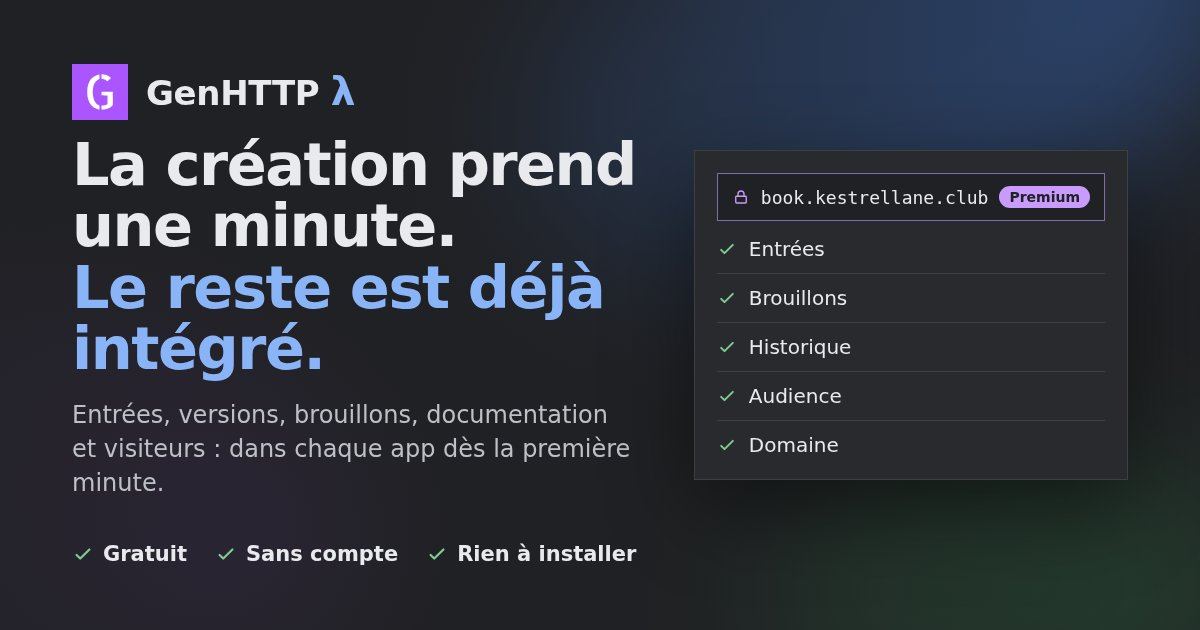
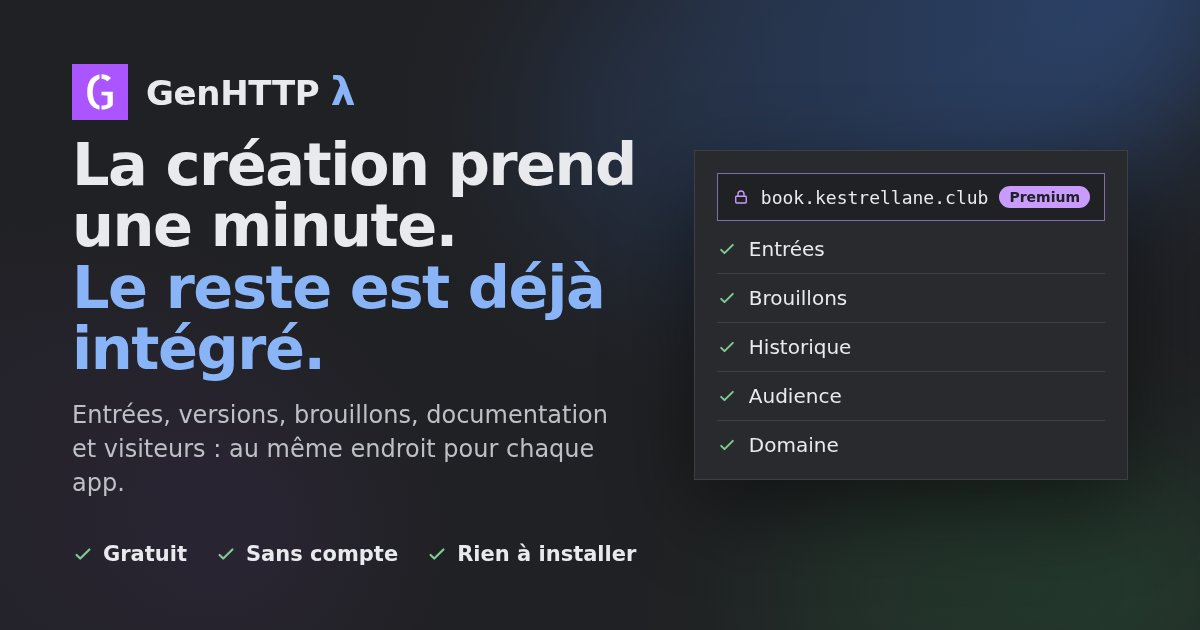
fix(i18n): translate the corrected sentences, and draw the features cards again

Changed region(s): [[0.185, 0.6937, 0.5242, 0.7238], [0.0617, 0.754, 0.1233, 0.7841]]

diff --git a/src/GenHTTP.Lambda.Cloud/Frontend/src/locales/ja/platform.tsx b/src/GenHTTP.Lambda.Cloud/Frontend/src/locales/ja/platform.tsx
@@ -7,7 +7,7 @@ export const platform: Messages['platform'] = {
   title: '作るのは1分。',
   titleAccent: 'あとは最初からそろっています。',
   intro:
-    'ここで作ったアプリは、AIが書いたコードだけではありません。使い続けるために必要なものが、あとから付いてきます。記録、バージョン、アプリの目的、訪れる人たち、そして独自ドメイン。どのアプリにもすべてがそろっていて、作ったときに届くリンクから、ひとつの場所で開けます。',
+    'ここで作ったアプリは、AIが書いたコードだけではありません。使い続けるために必要なものが、あとから付いてきます。記録、バージョン、アプリの目的、誰が訪れているかを知る手段、そして人気が出たときのための独自ドメイン。そのすべてが、作ったときに届くリンクから開ける、ひとつの場所にあります。',
   build: 'さっそく作る',
   ownAgent: 'いつものエージェントで作る',
   free: '無料。登録もクレジットカードも不要です。',
@@ -21,7 +21,7 @@ export const platform: Messages['platform'] = {
 
   behindTitle: 'どのアプリにも付いてくるもの',
   behindText:
-    'アプリを使い続けるために必要なのは、コードのまわりにあるものすべてです。どのアプリにも、最初の1分からすべてがそろっています。コードが読める人だけでなく、作った人のためのものです。',
+    'アプリを使い続けるために必要なのは、コードのまわりにあるものすべてです。コードが読める人だけでなく、作った人のためのものです。',
 
   yoursTitle: 'さらに先へ進めるために',
   yoursText: '開発者の方にも、このサイトがなくなってもアプリを残したい方にも。',

diff --git a/src/GenHTTP.Lambda.Cloud/Frontend/src/locales/ko/platform.tsx b/src/GenHTTP.Lambda.Cloud/Frontend/src/locales/ko/platform.tsx
@@ -7,7 +7,7 @@ export const platform: Messages['platform'] = {
   title: '만드는 데는 1분이면 돼요.',
   titleAccent: '나머지는 모두 갖춰져 있어요.',
   intro:
-    '여기서 만든 앱은 AI가 짠 코드 그 이상이에요. 앱을 계속 쓸모 있게 하는 것은 그 뒤에 오는 것들이에요. 기록, 버전과 앱의 용도, 방문하는 사람들, 나만의 도메인까지요. 모든 앱이 이 전부를 갖추고 있고, 앱을 만들 때 받는 링크 하나로 한곳에서 열어 볼 수 있어요.',
+    '여기서 만든 앱은 AI가 짠 코드 그 이상이에요. 앱을 계속 쓸모 있게 하는 것은 그 뒤에 오는 것들이에요. 기록, 버전과 앱의 용도, 누가 방문하는지 아는 것, 인기를 얻으면 가질 수 있는 나만의 도메인까지요. 이 모든 것이 한곳에 있고, 앱을 만들 때 받는 링크 하나로 열 수 있어요.',
   build: '만들어 보기',
   ownAgent: '내 에이전트 사용하기',
   free: '무료예요. 가입도, 카드 등록도 필요 없어요.',
@@ -21,7 +21,7 @@ export const platform: Messages['platform'] = {
 
   behindTitle: '모든 앱에 갖춰진 것',
   behindText:
-    '앱을 계속 쓸모 있게 하는 것은 코드를 둘러싼 모든 것이에요. 모든 앱이 첫 순간부터 이 전부를 갖춰요. 코드를 읽을 줄 아는 사람만이 아니라 앱을 만든 사람 누구에게나요.',
+    '앱을 계속 쓸모 있게 하는 것은 코드를 둘러싼 모든 것이에요. 코드를 읽을 줄 아는 사람만이 아니라 앱을 만든 사람 누구나 쓸 수 있어요.',
 
   yoursTitle: '더 멀리 가져갈 수 있어요',
   yoursText: '개발자와, 앱이 이 사이트보다 오래가길 바라는 모든 분을 위해서요.',

diff --git a/src/GenHTTP.Lambda.Cloud/Frontend/src/locales/tr/platform.tsx b/src/GenHTTP.Lambda.Cloud/Frontend/src/locales/tr/platform.tsx
@@ -7,7 +7,7 @@ export const platform: Messages['platform'] = {
   title: 'Yapmak bir dakika sürer.',
   titleAccent: 'Gerisi hazır geliyor.',
   intro:
-    'Burada yapılan bir uygulama, bir yapay zekânın yazdığı koddan fazlasıdır. Onu işe yarar kılan şey sonrasında gelir: kayıtları, sürümleri ve ne işe yaradığı, onu ziyaret edenler, kendi alan adı. Her uygulamada bunların hepsi vardır; hepsi, uygulama yapıldığında aldığınız linkle açılan tek bir yerdedir.',
+    'Burada yapılan bir uygulama, bir yapay zekânın yazdığı koddan fazlasıdır. Onu işe yarar kılan şey sonrasında gelir: kayıtları, sürümleri ve ne işe yaradığı, onu kimlerin ziyaret ettiğini bilmek, tutunduğunda kendi alan adı - hepsi, uygulama yapıldığında aldığınız linkle açılan tek bir yerde.',
   build: 'Bir şey yapın',
   ownAgent: 'Kendi ajanınızı kullanın',
   free: 'Ücretsiz. Üyelik yok, kredi kartı yok.',
@@ -21,7 +21,7 @@ export const platform: Messages['platform'] = {
 
   behindTitle: 'Her uygulamanın arkasında',
   behindText:
-    'Bir uygulamayı işe yarar kılan, kodunun çevresindeki her şeydir. Her uygulamada bunların hepsi ilk dakikadan itibaren vardır - yalnızca kod okuyabilenler için değil, uygulamayı yapan herkes için.',
+    'Bir uygulamayı işe yarar kılan, kodunun çevresindeki her şeydir - yalnızca kod okuyabilenler için değil, uygulamayı yapan herkes için orada.',
 
   yoursTitle: 'Daha ileri taşımak size kalmış',
   yoursText: 'Geliştiriciler için ve uygulamasının bu siteden uzun yaşamasını isteyen herkes için.',

diff --git a/src/GenHTTP.Lambda.Cloud/Frontend/src/locales/pl/platform.tsx b/src/GenHTTP.Lambda.Cloud/Frontend/src/locales/pl/platform.tsx
@@ -7,7 +7,7 @@ export const platform: Messages['platform'] = {
   title: 'Zbudowanie zajmuje minutę.',
   titleAccent: 'Cała reszta jest już w środku.',
   intro:
-    'Aplikacja zrobiona tutaj to coś więcej niż kod napisany przez AI. O jej przydatności decyduje to, co jest potem: jej wpisy, wersje i opis tego, do czego służy, osoby, które ją odwiedzają, własna domena. Każda aplikacja ma to wszystko w jednym miejscu, otwieranym linkiem, który dostajesz po jej zbudowaniu.',
+    'Aplikacja zrobiona tutaj to coś więcej niż kod napisany przez AI. O jej przydatności decyduje to, co jest potem: jej wpisy, wersje i opis tego, do czego służy, wiedza o tym, kto ją odwiedza, oraz własna domena, gdy aplikacja się przyjmie – wszystko w jednym miejscu, otwieranym linkiem, który dostajesz po jej zbudowaniu.',
   build: 'Zbuduj coś',
   ownAgent: 'Użyj własnego agenta',
   free: 'Za darmo. Bez rejestracji, bez karty kredytowej.',
@@ -21,7 +21,7 @@ export const platform: Messages['platform'] = {
 
   behindTitle: 'W każdej aplikacji',
   behindText:
-    'O przydatności aplikacji decyduje wszystko, co jest wokół jej kodu. Każda aplikacja ma to wszystko od pierwszej minuty – dla każdego, kto ją zrobił, nie tylko dla tych, którzy czytają kod.',
+    'O przydatności aplikacji decyduje wszystko, co jest wokół jej kodu – to jest dla każdego, kto ją zrobił, nie tylko dla tych, którzy czytają kod.',
 
   yoursTitle: 'Rozwijaj ją dalej po swojemu',
   yoursText: 'Dla programistów i dla każdego, kto chce, żeby jego aplikacja przetrwała dłużej niż ta strona.',

diff --git a/src/GenHTTP.Lambda.Cloud/Frontend/src/locales/id/platform.tsx b/src/GenHTTP.Lambda.Cloud/Frontend/src/locales/id/platform.tsx
@@ -7,7 +7,7 @@ export const platform: Messages['platform'] = {
   title: 'Membuatnya cuma semenit.',
   titleAccent: 'Selebihnya sudah tersedia.',
   intro:
-    'Aplikasi yang dibuat di sini lebih dari sekadar kode yang ditulis AI. Yang membuatnya tetap berguna datang sesudahnya: catatannya, versinya dan tujuannya, orang-orang yang mengunjunginya, serta domain sendiri. Setiap aplikasi mendapat semuanya, di satu tempat yang dibuka dengan link yang Anda terima saat aplikasinya selesai dibuat.',
+    'Aplikasi yang dibuat di sini lebih dari sekadar kode yang ditulis AI. Yang membuatnya tetap berguna datang sesudahnya: catatannya, versinya dan tujuannya, mengetahui siapa yang mengunjunginya, serta domain sendiri begitu aplikasinya mulai ramai - semuanya di satu tempat, dibuka dengan link yang Anda terima saat aplikasinya selesai dibuat.',
   build: 'Buat sesuatu',
   ownAgent: 'Pakai agen Anda sendiri',
   free: 'Gratis. Tanpa daftar, tanpa kartu kredit.',
@@ -21,7 +21,7 @@ export const platform: Messages['platform'] = {
 
   behindTitle: 'Di balik setiap aplikasi',
   behindText:
-    'Yang membuat aplikasi tetap berguna adalah semua yang ada di sekitar kodenya. Setiap aplikasi mendapat semuanya sejak menit pertama - untuk siapa pun yang membuatnya, bukan hanya yang bisa membaca kode.',
+    'Yang membuat aplikasi tetap berguna adalah semua yang ada di sekitar kodenya - tersedia untuk siapa pun yang membuatnya, bukan hanya yang bisa membaca kode.',
 
   yoursTitle: 'Bisa Anda kembangkan sendiri',
   yoursText: 'Untuk developer, dan siapa pun yang ingin aplikasinya tetap hidup di luar situs ini.',

diff --git a/src/GenHTTP.Lambda.Cloud/Frontend/src/locales/fr/platform.tsx b/src/GenHTTP.Lambda.Cloud/Frontend/src/locales/fr/platform.tsx
@@ -7,7 +7,7 @@ export const platform: Messages['platform'] = {
   title: 'La création prend une minute.',
   titleAccent: 'Le reste est déjà intégré.',
   intro:
-    'Une app créée ici, ce n’est pas seulement le code écrit par une IA. Ce qui la rend utile vient après : ses entrées, ses versions et son objectif, les personnes qui la visitent, un domaine à elle. Chaque app a tout cela, au même endroit, ouvert avec le lien que vous recevez à sa création.',
+    'Une app créée ici, ce n’est pas seulement le code écrit par une IA. Ce qui la rend utile vient après : ses entrées, ses versions et son objectif, savoir qui la visite, un domaine à elle quand elle prend son essor – le tout au même endroit, ouvert avec le lien que vous recevez à sa création.',
   build: 'Créer quelque chose',
   ownAgent: 'Utiliser votre propre agent',
   free: 'Gratuit. Sans inscription, sans carte bancaire.',
@@ -21,7 +21,7 @@ export const platform: Messages['platform'] = {
 
   behindTitle: 'Derrière chaque app',
   behindText:
-    'Ce qui rend une app utile, c’est tout ce qui entoure son code. Chaque app a tout cela dès la première minute, pour celui qui l’a créée, pas seulement pour celui qui sait lire du code.',
+    'Ce qui rend une app utile, c’est tout ce qui entoure son code – là pour celui qui l’a créée, pas seulement pour celui qui sait lire du code.',
 
   yoursTitle: 'À vous d’aller plus loin',
   yoursText: 'Pour les développeurs, et pour tous ceux qui veulent que leur app survive à ce site.',

diff --git a/src/GenHTTP.Lambda.Cloud/Frontend/src/locales/de/platform.tsx b/src/GenHTTP.Lambda.Cloud/Frontend/src/locales/de/platform.tsx
@@ -7,7 +7,7 @@ export const platform: Messages['platform'] = {
   title: 'Gebaut ist sie in einer Minute.',
   titleAccent: 'Alles andere ist schon eingebaut.',
   intro:
-    'Eine App von hier ist mehr als der Code, den eine KI geschrieben hat. Nützlich bleibt sie durch das, was danach kommt: ihre Einträge, ihre Versionen und ihr Zweck, die Menschen, die sie besuchen, eine eigene Domain. Jede App hat all das, an einem Ort, geöffnet mit dem Link, den Sie beim Erstellen bekommen.',
+    'Eine App von hier ist mehr als der Code, den eine KI geschrieben hat. Nützlich bleibt sie durch das, was danach kommt: ihre Einträge, ihre Versionen und ihr Zweck, das Wissen, wer sie besucht, und eine eigene Domain, sobald sie ankommt – alles an einem Ort, geöffnet mit dem Link, den Sie beim Erstellen bekommen.',
   build: 'Etwas bauen',
   ownAgent: 'Eigenen Agenten nutzen',
   free: 'Kostenlos. Ohne Anmeldung, ohne Kreditkarte.',
@@ -21,7 +21,7 @@ export const platform: Messages['platform'] = {
 
   behindTitle: 'In jeder App',
   behindText:
-    'Nützlich macht eine App alles rund um ihren Code. Jede App hat das alles von der ersten Minute an – für alle, die sie gemacht haben, nicht nur für Menschen, die Code lesen können.',
+    'Nützlich macht eine App alles rund um ihren Code – für alle da, die sie gemacht haben, nicht nur für Menschen, die Code lesen können.',
 
   yoursTitle: 'Zum Weiterführen',
   yoursText: 'Für Entwickler und für alle, die möchten, dass ihre App diese Seite überlebt.',

diff --git a/src/GenHTTP.Lambda.Cloud/Frontend/src/locales/pt/platform.tsx b/src/GenHTTP.Lambda.Cloud/Frontend/src/locales/pt/platform.tsx
@@ -7,7 +7,7 @@ export const platform: Messages['platform'] = {
   title: 'Criar leva um minuto.',
   titleAccent: 'O resto já vem incluído.',
   intro:
-    'Um app feito aqui é mais do que o código que uma IA escreveu. O que o mantém útil vem depois: seus registros, suas versões e para que ele serve, as pessoas que o visitam, um domínio próprio. Todo app tem tudo isso, em um só lugar, aberto com o link que você recebe quando ele fica pronto.',
+    'Um app feito aqui é mais do que o código que uma IA escreveu. O que o mantém útil vem depois: seus registros, suas versões e para que ele serve, saber quem o visita, um domínio próprio quando ele fizer sucesso - tudo em um só lugar, aberto com o link que você recebe quando ele fica pronto.',
   build: 'Criar algo',
   ownAgent: 'Usar seu próprio agente',
   free: 'Grátis. Sem cadastro, sem cartão de crédito.',
@@ -21,7 +21,7 @@ export const platform: Messages['platform'] = {
 
   behindTitle: 'Por trás de todo app',
   behindText:
-    'O que mantém um app útil é tudo o que existe em volta do código. Todo app tem tudo isso desde o primeiro minuto, para quem o criou, e não só para quem sabe ler código.',
+    'O que mantém um app útil é tudo o que existe em volta do código - disponível para quem o criou, e não só para quem sabe ler código.',
 
   yoursTitle: 'Seu para levar adiante',
   yoursText: 'Para desenvolvedores e para quem quer que o app continue existindo além deste site.',

diff --git a/src/GenHTTP.Lambda.Cloud/Frontend/src/locales/it/platform.tsx b/src/GenHTTP.Lambda.Cloud/Frontend/src/locales/it/platform.tsx
@@ -7,7 +7,7 @@ export const platform: Messages['platform'] = {
   title: 'Crearla richiede un minuto.',
   titleAccent: 'Il resto è già incluso.',
   intro:
-    'Un’app creata qui è più del codice scritto da un’IA. Quello che la rende utile viene dopo: le sue voci, le sue versioni e a cosa serve, le persone che la visitano, un dominio tutto suo. Ogni app ha tutto questo, in un unico posto che si apre con il link che ricevi quando è pronta.',
+    'Un’app creata qui è più del codice scritto da un’IA. Quello che la rende utile viene dopo: le sue voci, le sue versioni e a cosa serve, sapere chi la visita, un dominio tutto suo quando inizia a funzionare - tutto in un unico posto, che si apre con il link che ricevi quando è pronta.',
   build: 'Crea qualcosa',
   ownAgent: 'Usa il tuo agente',
   free: 'Gratis. Senza registrazione, senza carta di credito.',
@@ -21,7 +21,7 @@ export const platform: Messages['platform'] = {
 
   behindTitle: 'Dietro ogni app',
   behindText:
-    'Quello che rende utile un’app è tutto ciò che sta intorno al suo codice. Ogni app ha tutto fin dal primo minuto, per chi l’ha creata e non solo per chi sa leggere il codice.',
+    'Quello che rende utile un’app è tutto ciò che sta intorno al suo codice: c’è per chi l’ha creata, non solo per chi sa leggere il codice.',
 
   yoursTitle: 'Tua, per andare oltre',
   yoursText: 'Per gli sviluppatori e per chiunque voglia che la propria app sopravviva a questo sito.',

diff --git a/src/GenHTTP.Lambda.Cloud/Frontend/src/locales/es/platform.tsx b/src/GenHTTP.Lambda.Cloud/Frontend/src/locales/es/platform.tsx
@@ -7,7 +7,7 @@ export const platform: Messages['platform'] = {
   title: 'Crearla lleva un minuto.',
   titleAccent: 'Todo lo demás ya viene incluido.',
   intro:
-    'Una app creada aquí es mucho más que el código que escribió una IA. Lo que la mantiene útil viene después: sus registros, sus versiones y para qué sirve, las personas que la visitan, un dominio propio. Cada app lo tiene todo, en un solo lugar al que se entra con el enlace que recibes al crearla.',
+    'Una app creada aquí es mucho más que el código que escribió una IA. Lo que la mantiene útil viene después: sus registros, sus versiones y para qué sirve, saber quién la visita, un dominio propio cuando despega, todo en un solo lugar al que se entra con el enlace que recibes al crearla.',
   build: 'Crea algo',
   ownAgent: 'Usa tu propio agente',
   free: 'Gratis. Sin registro, sin tarjeta.',
@@ -21,7 +21,7 @@ export const platform: Messages['platform'] = {
 
   behindTitle: 'Detrás de cada app',
   behindText:
-    'Lo que mantiene útil una app es todo lo que rodea a su código. Cada app lo tiene todo desde el primer minuto, para quien la creó y no solo para quien sabe leer código.',
+    'Lo que mantiene útil una app es todo lo que rodea a su código, y está ahí para quien la creó, no solo para quien sabe leer código.',
 
   yoursTitle: 'Tuyo para llevarlo más lejos',
   yoursText: 'Para desarrolladores y para quien quiera que su app sobreviva a este sitio.',

diff --git a/src/GenHTTP.Lambda.Cloud/Frontend/src/locales/pt-pt/platform.tsx b/src/GenHTTP.Lambda.Cloud/Frontend/src/locales/pt-pt/platform.tsx
@@ -7,7 +7,7 @@ export const platform: Messages['platform'] = {
   title: 'Construir demora um minuto.',
   titleAccent: 'O resto já vem incluído.',
   intro:
-    'Uma app feita aqui é mais do que o código que uma IA escreveu. O que a torna útil vem depois: os seus registos, as suas versões e para que serve, as pessoas que a visitam, um domínio próprio. Cada app tem tudo isto, num só sítio, aberto com o link que recebes quando ela é criada.',
+    'Uma app feita aqui é mais do que o código que uma IA escreveu. O que a torna útil vem depois: os seus registos, as suas versões e para que serve, saber quem a visita, um domínio próprio quando ganha adeptos - tudo num só sítio, aberto com o link que recebes quando ela é criada.',
   build: 'Construir algo',
   ownAgent: 'Usar o teu próprio agente',
   free: 'Grátis. Sem registo, sem cartão de crédito.',
@@ -21,7 +21,7 @@ export const platform: Messages['platform'] = {
 
   behindTitle: 'Por trás de cada app',
   behindText:
-    'O que torna uma app útil é tudo o que existe à volta do seu código. Cada app tem tudo isto desde o primeiro minuto - para quem a fez, e não só para quem sabe ler código.',
+    'O que torna uma app útil é tudo o que existe à volta do seu código - ao dispor de quem a fez, e não só de quem sabe ler código.',
 
   yoursTitle: 'Teu para ires mais longe',
   yoursText: 'Para programadores, e para quem quer que a sua app sobreviva a este site.',

diff --git a/src/GenHTTP.Lambda.Cloud/Frontend/src/locales/nl/platform.tsx b/src/GenHTTP.Lambda.Cloud/Frontend/src/locales/nl/platform.tsx
@@ -7,7 +7,7 @@ export const platform: Messages['platform'] = {
   title: 'Bouwen duurt een minuut.',
   titleAccent: 'De rest zit er al in.',
   intro:
-    'Een app die je hier maakt, is meer dan de code die een AI schreef. Wat hem nuttig houdt komt daarna: zijn items, zijn versies en waar hij voor dient, de mensen die hem bezoeken, een eigen domein. Elke app heeft dat allemaal, op één plek, die je opent met de link die je krijgt zodra hij klaar is.',
+    'Een app die je hier maakt, is meer dan de code die een AI schreef. Wat hem nuttig houdt komt daarna: zijn items, zijn versies en waar hij voor dient, weten wie hem bezoekt, een eigen domein zodra hij aanslaat - alles op één plek, die je opent met de link die je krijgt zodra hij klaar is.',
   build: 'Bouw iets',
   ownAgent: 'Gebruik je eigen agent',
   free: 'Gratis. Geen account, geen creditcard.',
@@ -21,7 +21,7 @@ export const platform: Messages['platform'] = {
 
   behindTitle: 'Achter elke app',
   behindText:
-    'Wat een app nuttig houdt, is alles rond zijn code. Elke app heeft dat allemaal vanaf de eerste minuut - voor wie hem maakte, niet alleen voor wie code kan lezen.',
+    'Wat een app nuttig houdt, is alles rond zijn code - er voor wie hem maakte, niet alleen voor wie code kan lezen.',
 
   yoursTitle: 'Van jou om verder mee te gaan',
   yoursText: 'Voor ontwikkelaars, en voor iedereen die wil dat zijn app deze site overleeft.',
